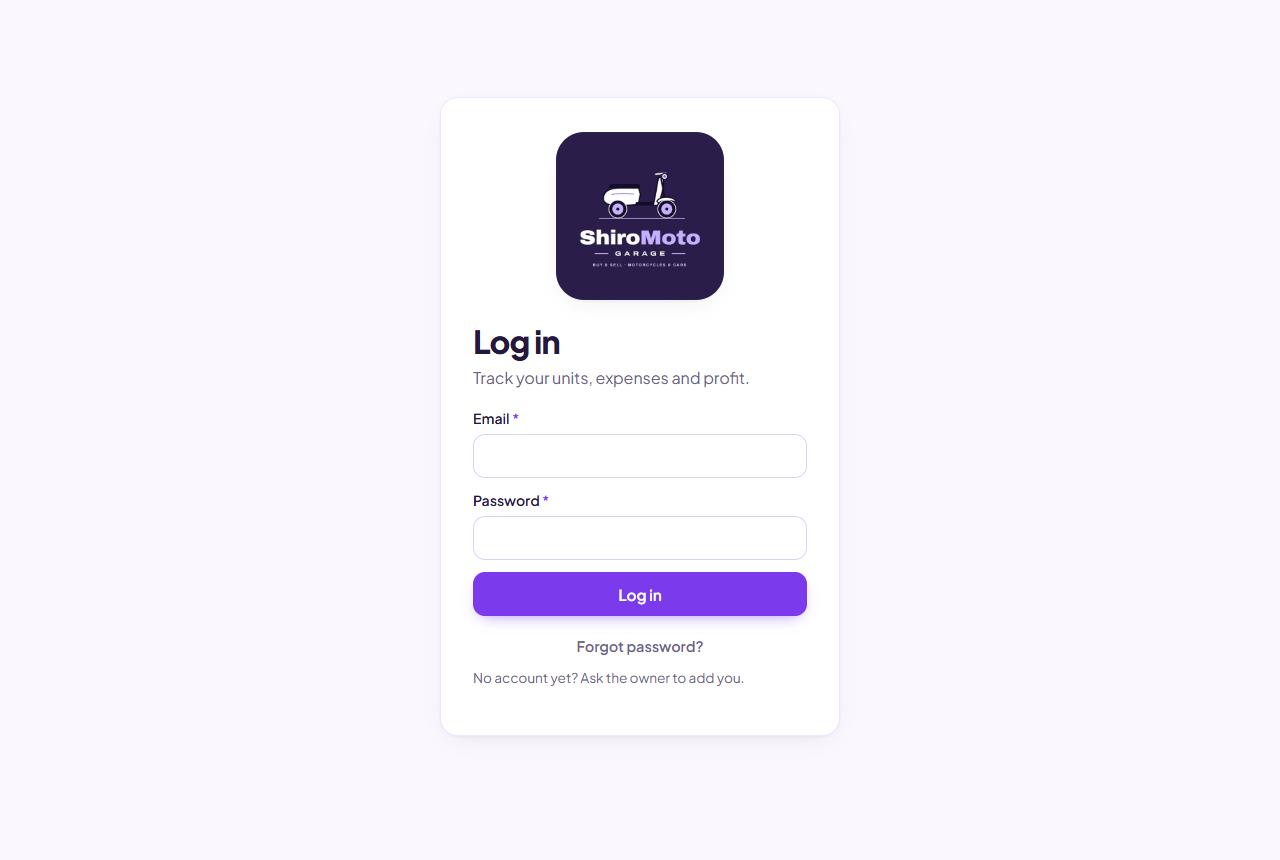
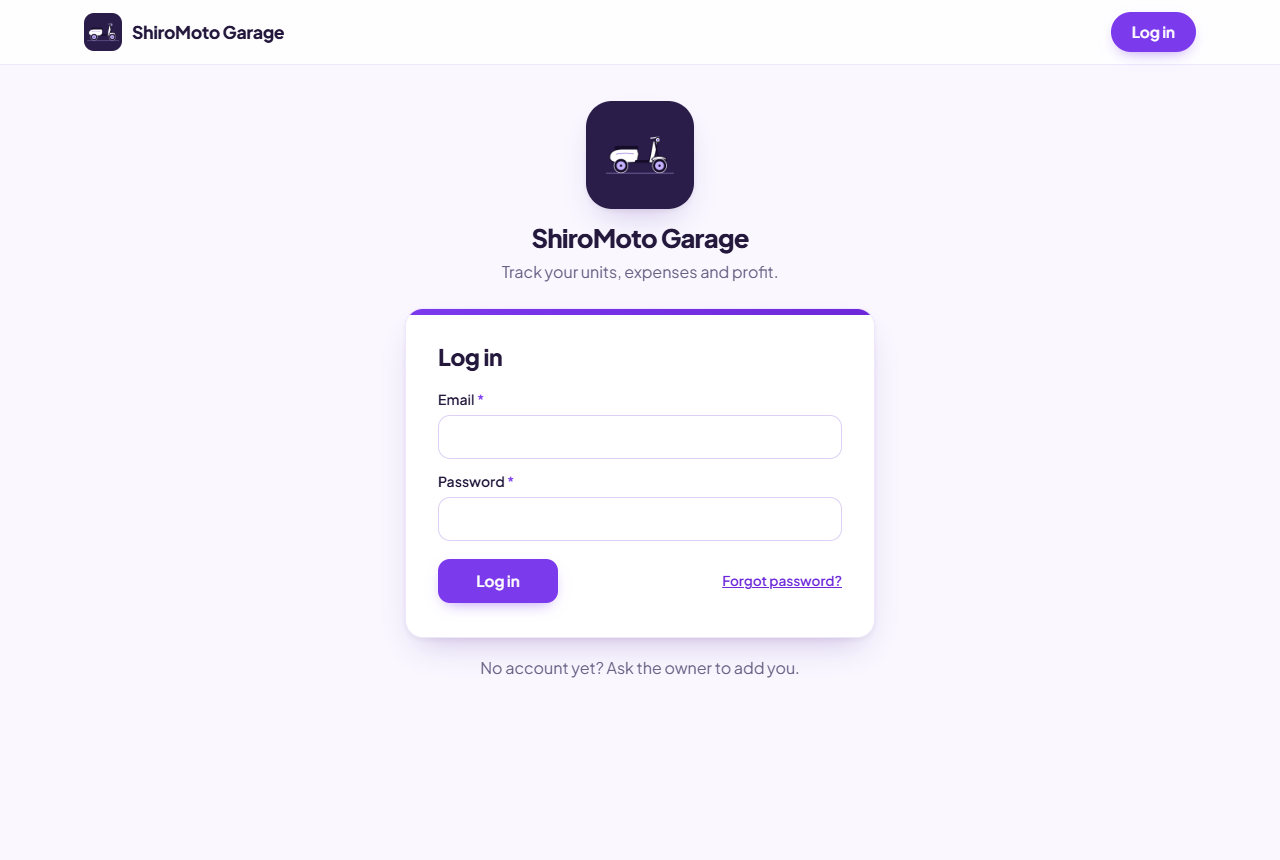
Lay out the login screen like Later Gator
Logged out, the top bar shows the brand and a Log in button (body.guest hides the tabs, avatar and Log out). Above the card are the app icon, the name and the tagline. The card has an accent bar across the top, the error in a tinted box above the fields, and a compact Log in button with Forgot password beside it. "No account yet?" moves below the card. The setup screen uses the same hero. Screenshots are updated.

diff --git a/js/app.js b/js/app.js
@@ -6,9 +6,10 @@
   const toastEl = document.getElementById('toast');
   const bottomNav = document.getElementById('bottom-nav');
 
-  // Top bar and phone bottom bar are hidden on the login and setup screens.
+  // On the login and setup screens the top bar shows only the brand and the phone bottom bar is hidden.
   function showChrome(on) {
-    topbar.hidden = !on;
+    topbar.hidden = false;
+    document.body.classList.toggle('guest', !on);
     bottomNav.hidden = !on;
     document.body.classList.toggle('has-bottom-nav', on);
   }
@@ -523,10 +524,10 @@
 
   function renderSetup() {
     showChrome(false);
+    document.getElementById('guest-login').hidden = true;
     const offline = configured && !fb;
-    view.innerHTML = `<div class="auth page"><div class="auth-card">
-      ${brandMark()}
-      <h1>${offline ? 'Can’t load the app' : 'Finish setting up'}</h1>
+    view.innerHTML = `<div class="auth page">${authHero()}<div class="auth-card">
+      <h2>${offline ? 'Can’t load the app' : 'Finish setting up'}</h2>
       ${offline
         ? '<p>Firebase didn’t load. Check your internet connection and refresh.</p>'
         : `<p>Connect the app to your Firebase project:</p>
@@ -538,25 +539,29 @@
     </div></div>`;
   }
 
-  function brandMark() {
-    return `<div class="auth-brand">
-      <img class="auth-logo" src="img/logo.png" alt="${esc(businessName())}" width="480" height="480"></div>`;
+  // App icon, name and tagline above the login and setup cards.
+  function authHero() {
+    return `<div class="auth-hero">
+      <img class="auth-icon" src="img/icon-512.png" alt="" width="512" height="512">
+      <h1>${esc(businessName())}</h1>
+      <p class="muted">Track your units, expenses and profit.</p></div>`;
   }
 
   function renderLogin() {
-    view.innerHTML = `<div class="auth page"><div class="auth-card">
-      ${brandMark()}
-      <h1>Log in</h1>
-      <p class="muted">Track your units, expenses and profit.</p>
+    document.getElementById('guest-login').hidden = false;
+    view.innerHTML = `<div class="auth page">${authHero()}<div class="auth-card">
+      <h2>Log in</h2>
       <form id="login-form" novalidate>
+        <p class="form-error" id="login-error" role="alert"></p>
         ${field('email', 'Email', '', { type: 'email', required: true, attrs: 'autocomplete="email"' })}
         ${field('password', 'Password', '', { type: 'password', required: true, attrs: 'autocomplete="current-password"' })}
-        <p class="form-error" id="login-error" role="alert"></p>
-        <button class="btn btn-block" type="submit">Log in</button>
+        <div class="auth-actions">
+          <button class="btn" type="submit">Log in</button>
+          <button class="link-btn forgot" type="button" id="forgot">Forgot password?</button>
+        </div>
       </form>
-      <button class="btn-ghost btn-block forgot" type="button" id="forgot">Forgot password?</button>
-      <p class="muted small">No account yet? Ask the owner to add you.</p>
-    </div></div>`;
+    </div>
+    <p class="auth-foot muted">No account yet? Ask the owner to add you.</p></div>`;
 
     const form = view.querySelector('#login-form');
     view.querySelector('#forgot').addEventListener('click', (e) => {
@@ -2006,6 +2011,11 @@
     document.getElementById('logout').addEventListener('click', async () => {
       await fb.signOut(auth);
       location.hash = '#/';
+    });
+    // The header Log in button on the login screen just moves to the email field.
+    document.getElementById('guest-login').addEventListener('click', (e) => {
+      const email = view.querySelector('#login-form [name=email]');
+      if (email) { e.preventDefault(); email.focus(); }
     });
   }
 

diff --git a/css/styles.css b/css/styles.css
@@ -90,6 +90,11 @@ code { font-size: 0.9em; background: var(--bg); padding: 1px 6px; border-radius:
 .avatar { display: grid; place-items: center; width: 34px; height: 34px; border-radius: 50%; background: var(--accent); color: #fff; font-weight: 800; font-size: 0.95rem; }
 .avatar-name { display: none; max-width: 140px; overflow: hidden; text-overflow: ellipsis; white-space: nowrap; }
 .topbar .logout:hover { color: var(--ink); }
+/* Logged out, the top bar shows the brand and a Log in button. */
+.guest .tabs, .guest .avatar-link, .guest .logout { display: none; }
+.guest-login { display: none; }
+.topbar .guest-login { min-height: 40px; padding: 0 20px; border-radius: 999px; }
+.guest .guest-login:not([hidden]) { display: inline-flex; }
 
 /* Top tabs are for wider screens; phones use the bottom bar. */
 .tabs { display: none; }
@@ -406,13 +411,23 @@ input:focus, select:focus, textarea:focus { outline: none; border-color: var(--a
 
 /* ---------- Login / setup ---------- */
 
-.auth { min-height: calc(100vh - 84px); display: grid; place-items: center; }
-.auth-card { width: 100%; max-width: 400px; background: var(--surface); border: 1px solid var(--line); border-radius: 18px; padding: 28px 22px; box-shadow: var(--shadow); }
-.auth-card h1 { margin-bottom: 6px; }
-.auth-card form { margin-top: 18px; }
-.forgot { margin-top: 8px; font-size: 0.9rem; color: var(--muted); }
-.auth-brand { display: flex; justify-content: center; margin-bottom: 22px; }
-.auth-logo { display: block; width: 168px; height: 168px; border-radius: 28px; box-shadow: var(--shadow); }
+.auth { display: flex; flex-direction: column; align-items: center; padding-top: 8px; }
+.auth-hero { text-align: center; margin-bottom: 24px; }
+.auth-icon { display: block; width: 108px; height: 108px; margin: 0 auto 14px; border-radius: 26px; box-shadow: var(--shadow-lift); }
+.auth-hero h1 { font-size: 1.6rem; }
+.auth-hero p { margin: 6px 0 0; }
+/* The accent bar across the top of the card is a 6px background strip. */
+.auth-card {
+  width: 100%; max-width: 470px; padding: 28px 22px;
+  background: linear-gradient(90deg, var(--accent), var(--accent-strong)) top / 100% 6px no-repeat, var(--surface);
+  border: 1px solid var(--line); border-radius: 18px; box-shadow: var(--shadow-lift);
+}
+.auth-card h2 { font-size: 1.45rem; font-weight: 800; letter-spacing: -0.02em; margin-bottom: 18px; }
+.auth-card .form-error { padding: 12px 16px; margin-bottom: 16px; border-radius: var(--radius-sm); background: var(--neg-soft); }
+.auth-actions { display: flex; flex-wrap: wrap; align-items: center; justify-content: space-between; gap: 12px; margin-top: 18px; }
+.auth-actions .btn { min-width: 120px; }
+.forgot { font-size: 0.9rem; }
+.auth-foot { margin: 18px 0 0; text-align: center; }
 .steps { padding-left: 20px; margin: 0 0 12px; }
 .steps li { margin-bottom: 8px; }
 

diff --git a/index.html b/index.html
@@ -12,7 +12,7 @@
   <link rel="preconnect" href="https://fonts.googleapis.com">
   <link rel="preconnect" href="https://fonts.gstatic.com" crossorigin>
   <link href="https://fonts.googleapis.com/css2?family=Plus+Jakarta+Sans:wght@400;500;600;700;800&display=swap" rel="stylesheet">
-  <link rel="stylesheet" href="css/styles.css?v=13">
+  <link rel="stylesheet" href="css/styles.css?v=14">
 </head>
 <body>
   <header class="topbar" id="topbar" hidden>
@@ -32,6 +32,7 @@
         <span class="avatar-name" id="avatar-name"></span>
       </a>
       <button class="btn-ghost logout" id="logout" type="button">Log out</button>
+      <a class="btn guest-login" id="guest-login" href="#/">Log in</a>
     </div>
   </header>
 
@@ -65,7 +66,7 @@
 
   <div class="toast" id="toast" role="status" aria-live="polite"></div>
 
-  <script src="js/config.js?v=13"></script>
-  <script src="js/app.js?v=13"></script>
+  <script src="js/config.js?v=14"></script>
+  <script src="js/app.js?v=14"></script>
 </body>
 </html>

diff --git a/AGENTS.md b/AGENTS.md
@@ -20,7 +20,7 @@ Moto Garage is a unit tracker for a motorcycle and car buy-and-sell business. It
 - The Reports page reads every expense with a `collectionGroup('expenses')` query, which `firestore.rules` allows separately. Its chart is a hand-built SVG in `drawProfitChart()`, which puts losses below the zero line and has a table view.
 - `summarize()` derives `total_cost`, `profit` and `days_in_stock`. Lists are fetched whole and sorted and filtered client-side, which is fine for a small dealer. No Firestore indexes are needed.
 - Form validation: `field()` renders an input plus `<p class="error" id="{name}-error">`. `validate(form, extra)` uses native validity and an optional `{ name: value => message }` map. `formValues()` converts the names in `NUMERIC` to numbers and blank values to `null`.
-- The logo and app icons are fixed files in `img/`: `logo.png` (full logo, login screen), `mark.png` (scooter only, top bar and favicon), and `apple-touch-icon.png`, `icon-192.png` and `icon-512.png` (home screen, listed in `manifest.webmanifest`). They are not editable in the app.
+- The logo and app icons are fixed files in `img/`: `mark.png` (scooter only, top bar and favicon), `apple-touch-icon.png`, `icon-192.png` and `icon-512.png` (home screen, listed in `manifest.webmanifest`; `icon-512.png` is also the icon above the login card), and `logo.png` (the full logo with text, kept as the source and not used by the app). They are not editable in the app. Logged out, `showChrome(false)` adds `body.guest`, so the top bar shows only the brand and, on the login screen, a Log in button (`#guest-login`) that focuses the email field. There is no sign-up; the owner adds accounts.
 - Business name, phone, email and address live in `settings/business` (`api.getBusiness`/`saveBusiness`), edited on the Profile page (`#/profile`, `renderProfile()`). `applyBranding()` puts the name in the top bar and tab title and caches it in localStorage for the login screen. Older documents may still have an unused `logo` field. The user's own name is the Firebase Auth `displayName`, shown in the header avatar (`updateAvatar()`).
 - Cash (`#/cash`, `renderCash()`): money on hand is never stored. `cashLedger()` derives it from the starting money in `settings/cash` ({amount, as_of}) plus every event dated on or after `as_of`: unit purchases and expenses (out), reservation deposits and sales (in; a sale after a deposit counts only the balance), and manual entries in the `cash` collection ({type: in|out, amount, date, note}). Editing or deleting a unit or expense updates it automatically.
 - Access control is the email allowlist in `firestore.rules`. When adding an email, create that Auth user at the same time, so no one else can register the address first.
